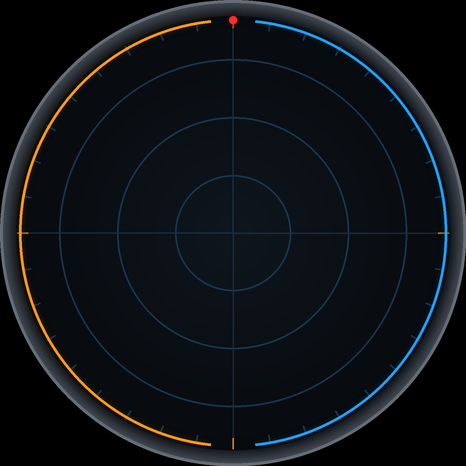
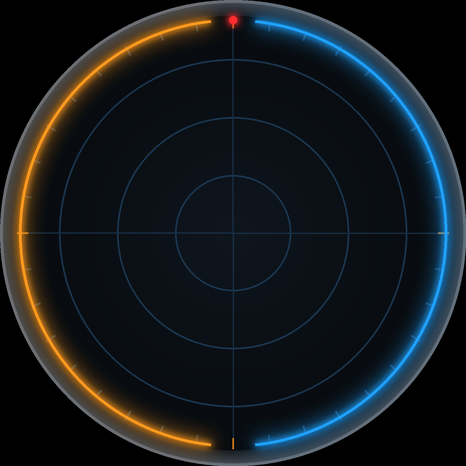
Portal: real glow on the portals and bezel rings
The halo was faint because the blur helper blurred colour and alpha separately, so the light
faded toward black instead of staying orange or blue, and a thin ring blurred wide has little
peak alpha. glow_of() now blurs premultiplied colour, and each portal is lit three ways: a wide
spill onto the wall, a halo, and a bloom on the rim, plus light falling into the void. The split
bezel rings get the same. The glow is dithered (seeded, so the art is reproducible) because a wide
faint gradient otherwise quantised into visible contour rings on the white clock face.

Changed region(s): [[0.0, 0.0, 0.9914, 0.9914]]

diff --git a/tools/portal_art.py b/tools/portal_art.py
@@ -80,10 +80,28 @@ def over(base: Image.Image, layer: Image.Image, mask: Image.Image | None = None)
 
 
 def glow_of(layer: Image.Image, radius: float, gain: float = 1.0) -> Image.Image:
-    g = layer.filter(ImageFilter.GaussianBlur(sc(radius)))
-    if gain != 1.0:
-        g.putalpha(g.getchannel('A').point(lambda v: min(255, int(v * gain))))
-    return g
+    """Blur `layer` into a soft light of the same colours.
+
+    Blurred premultiplied, so the halo keeps the ring's colour as it fades instead of going grey
+    toward the transparent black around it. A thin ring blurred wide has a low peak alpha, so
+    `gain` is what makes the light visible rather than a tint."""
+    arr = np.asarray(layer, np.float32) / 255.0
+    a = arr[..., 3]
+    blur = ImageFilter.GaussianBlur(sc(radius))
+
+    def soft(channel: np.ndarray) -> np.ndarray:
+        img = Image.fromarray((np.clip(channel, 0, 1) * 255).astype(np.uint8), 'L').filter(blur)
+        return np.asarray(img, np.float32) / 255.0
+
+    a2 = soft(a)
+    rgb = np.stack([soft(arr[..., i] * a) for i in range(3)], axis=-1)
+    with np.errstate(divide='ignore', invalid='ignore'):
+        rgb = np.where(a2[..., None] > 1e-4, rgb / a2[..., None], 0)
+    out = np.dstack([np.clip(rgb, 0, 1), np.clip(a2 * gain, 0, 1)]) * 255
+    # dither: a wide, faint gradient otherwise quantises into visible contour rings. Seeded, so the
+    # art is the same every run.
+    out = out + np.random.default_rng(7).uniform(-0.5, 0.5, out.shape)
+    return Image.fromarray(np.clip(out + 0.5, 0, 255).astype(np.uint8), 'RGBA')
 
 
 def finish(img: Image.Image, opaque: bool = True) -> Image.Image:
@@ -107,9 +125,14 @@ def portal(cx, cy, rx, ry, color, hi, lo, ring=6.0, tilt=0.0) -> Image.Image:
     ImageDraw.Draw(hl).ellipse([b + sc(ring * 0.9) * s for b, s in zip(box, (1, 1, -1, -1))],
                                outline=hi + (190,), width=max(1, sc(ring * 0.28)))
     ImageDraw.Draw(void).ellipse(inner, fill=lo + (150,))
-    out = glow_of(rim, ring * 1.8, 1.6)
-    out = over(out, glow_of(rim, ring * 0.6, 1.2))
-    for part in (void, rim, hl):
+    # three lights, wide to tight: a soft spill onto the wall, a halo, and a bloom on the rim itself
+    out = over(glow_of(rim, ring * 4.5, 2.6), glow_of(rim, ring * 1.7, 2.2))
+    out = over(out, glow_of(rim, ring * 0.7, 1.6))
+    out = over(out, void)
+    # ... and the light falling into the void, brightest against the rim
+    inside = glow_of(rim, ring * 2.4, 1.5)
+    out = over(out, inside, ellipse_mask(cx, cy, rx - ring * 0.4, ry - ring * 0.4))
+    for part in (rim, hl):
         out = over(out, part)
     if tilt:
         out = out.rotate(tilt, center=(sc(cx), sc(cy)), resample=Image.BICUBIC)
@@ -132,7 +155,7 @@ def split_ring(r_mid: float, width: float, gap_deg: float = 6.0) -> Image.Image:
     d = ImageDraw.Draw(out)
     d.arc(bbox, 90 + gap_deg, 270 - gap_deg, fill=ORANGE + (255,), width=sc(width))
     d.arc(bbox, 270 + gap_deg, 450 - gap_deg, fill=BLUE + (255,), width=sc(width))
-    return over(glow_of(out, width * 1.6, 1.4), out)
+    return over(over(glow_of(out, width * 3.6, 2.6), glow_of(out, width * 1.3, 1.8)), out)
 
 
 def panels(color=PANEL, seam=SEAM, tile=93, seam_w=2.0) -> Image.Image:
